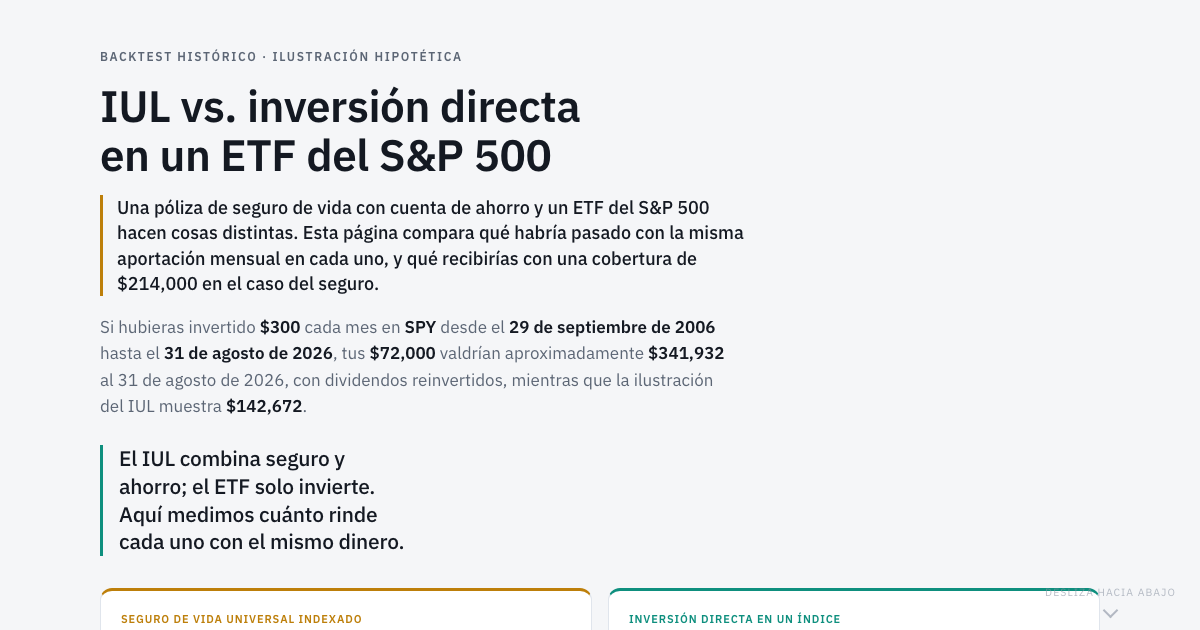
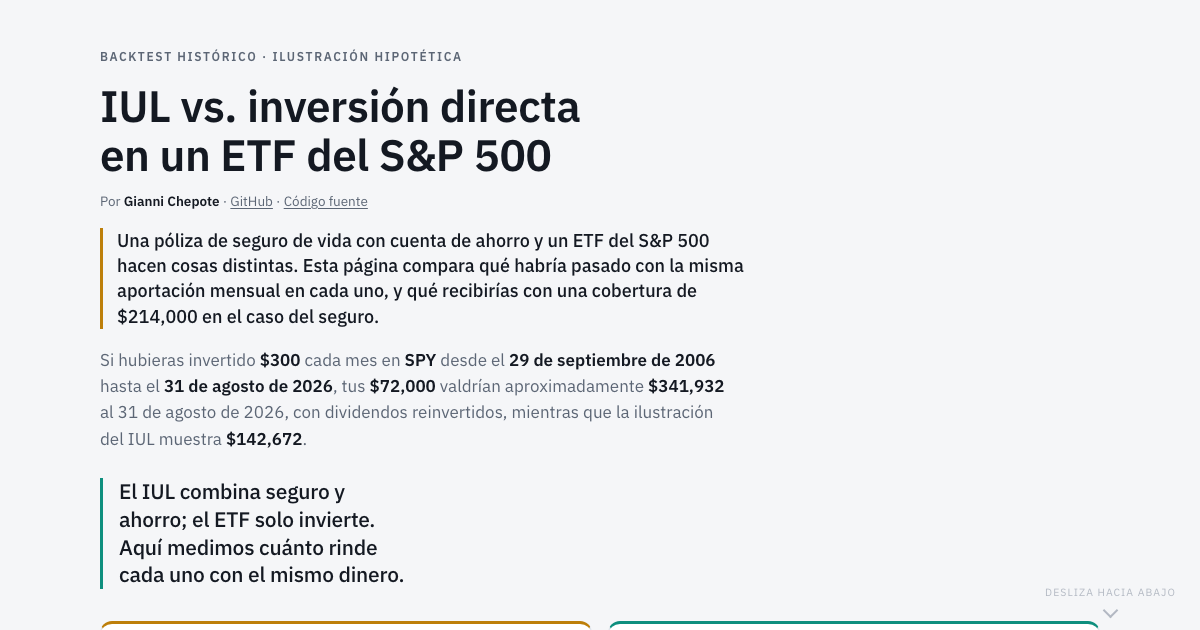
Add author byline to the page and README

Changed region(s): [[0.0617, 0.3016, 0.6167, 0.9952], [0.5242, 0.9349, 0.925, 0.9952]]

diff --git a/app/index.html b/app/index.html
@@ -4,6 +4,7 @@
 <meta charset="utf-8" />
 <meta name="viewport" content="width=device-width, initial-scale=1, viewport-fit=cover" />
 <title>IUL vs. inversión directa en un ETF del S&amp;P 500</title>
+<meta name="author" content="Gianni Chepote" />
 <meta name="description" content="Backtest con datos reales: $300 al mes en un ETF del S&amp;P 500 frente a un seguro de vida universal indexado (IUL), con la regla de tope y piso aplicada al índice real." />
 <meta property="og:type" content="website" />
 <meta property="og:title" content="IUL vs. inversión directa en un ETF del S&amp;P 500" />
@@ -128,6 +129,10 @@
   .dot { width: 8px; height: 8px; border-radius: 50%; display: inline-block; }
   .chart-grid { display: grid; grid-template-columns: 1fr 1fr; gap: 16px; }
 
+  .byline { margin: 12px 0 0; font-size: 13.5px; color: var(--muted); }
+  .byline b { color: var(--ink); font-weight: 600; }
+  .byline a { color: var(--muted); text-decoration: underline; text-underline-offset: 2px; }
+  .byline a:hover { color: var(--ink); }
   .footnote { margin-top: 40px; font-size: 12px; color: var(--faint); max-width: 72ch; }
   .disclosure { margin-top: 14px; padding: 14px 16px; border-left: 3px solid var(--iula); background: var(--surface); border-radius: 0 8px 8px 0; font-size: 12.5px; color: var(--muted); }
   .exit-note { font-size: 12.5px; color: var(--muted); margin-top: 10px; }
@@ -204,6 +209,7 @@
   <header>
     <p class="eyebrow">Backtest histórico · ilustración hipotética</p>
     <h1 class="headline">IUL vs. inversión directa en un ETF del S&amp;P 500</h1>
+    <p class="byline">Por <b>Gianni Chepote</b> · <a href="https://github.com/gianni-chepote">GitHub</a> · <a href="https://github.com/gianni-chepote/iul-vs-direct-investing">Código fuente</a></p>
     <p class="subtitle">Una póliza de seguro de vida con cuenta de ahorro y un ETF del S&amp;P 500 hacen cosas distintas. Esta página compara qué habría pasado con la misma aportación mensual en cada uno, y qué recibirías con una cobertura de $214,000 en el caso del seguro.</p>
     <p class="answer" id="answer"></p>
   </header>

diff --git a/app/template.html b/app/template.html
@@ -1,4 +1,5 @@
 <title>IUL vs. inversión directa en un ETF del S&amp;P 500</title>
+<meta name="author" content="Gianni Chepote" />
 <meta name="description" content="Backtest con datos reales: $300 al mes en un ETF del S&amp;P 500 frente a un seguro de vida universal indexado (IUL), con la regla de tope y piso aplicada al índice real." />
 <meta property="og:type" content="website" />
 <meta property="og:title" content="IUL vs. inversión directa en un ETF del S&amp;P 500" />
@@ -123,6 +124,10 @@
   .dot { width: 8px; height: 8px; border-radius: 50%; display: inline-block; }
   .chart-grid { display: grid; grid-template-columns: 1fr 1fr; gap: 16px; }
 
+  .byline { margin: 12px 0 0; font-size: 13.5px; color: var(--muted); }
+  .byline b { color: var(--ink); font-weight: 600; }
+  .byline a { color: var(--muted); text-decoration: underline; text-underline-offset: 2px; }
+  .byline a:hover { color: var(--ink); }
   .footnote { margin-top: 40px; font-size: 12px; color: var(--faint); max-width: 72ch; }
   .disclosure { margin-top: 14px; padding: 14px 16px; border-left: 3px solid var(--iula); background: var(--surface); border-radius: 0 8px 8px 0; font-size: 12.5px; color: var(--muted); }
   .exit-note { font-size: 12.5px; color: var(--muted); margin-top: 10px; }
@@ -198,6 +203,7 @@
   <header>
     <p class="eyebrow">Backtest histórico · ilustración hipotética</p>
     <h1 class="headline">IUL vs. inversión directa en un ETF del S&amp;P 500</h1>
+    <p class="byline">Por <b>Gianni Chepote</b> · <a href="https://github.com/gianni-chepote">GitHub</a> · <a href="https://github.com/gianni-chepote/iul-vs-direct-investing">Código fuente</a></p>
     <p class="subtitle">Una póliza de seguro de vida con cuenta de ahorro y un ETF del S&amp;P 500 hacen cosas distintas. Esta página compara qué habría pasado con la misma aportación mensual en cada uno, y qué recibirías con una cobertura de $214,000 en el caso del seguro.</p>
     <p class="answer" id="answer"></p>
   </header>

diff --git a/README.md b/README.md
@@ -2,7 +2,7 @@
 
 [![Verify and deploy](https://github.com/gianni-chepote/iul-vs-direct-investing/actions/workflows/pages.yml/badge.svg)](https://github.com/gianni-chepote/iul-vs-direct-investing/actions/workflows/pages.yml)
 
-**Live site:** https://gianni-chepote.github.io/iul-vs-direct-investing/ (in Spanish)
+By **Gianni Chepote** · **Live site:** https://gianni-chepote.github.io/iul-vs-direct-investing/ (in Spanish)
 
 An interactive, data-driven comparison built to answer a real sales pitch: an
 Indexed Universal Life (IUL) policy illustrated as turning $300 a month for 20
